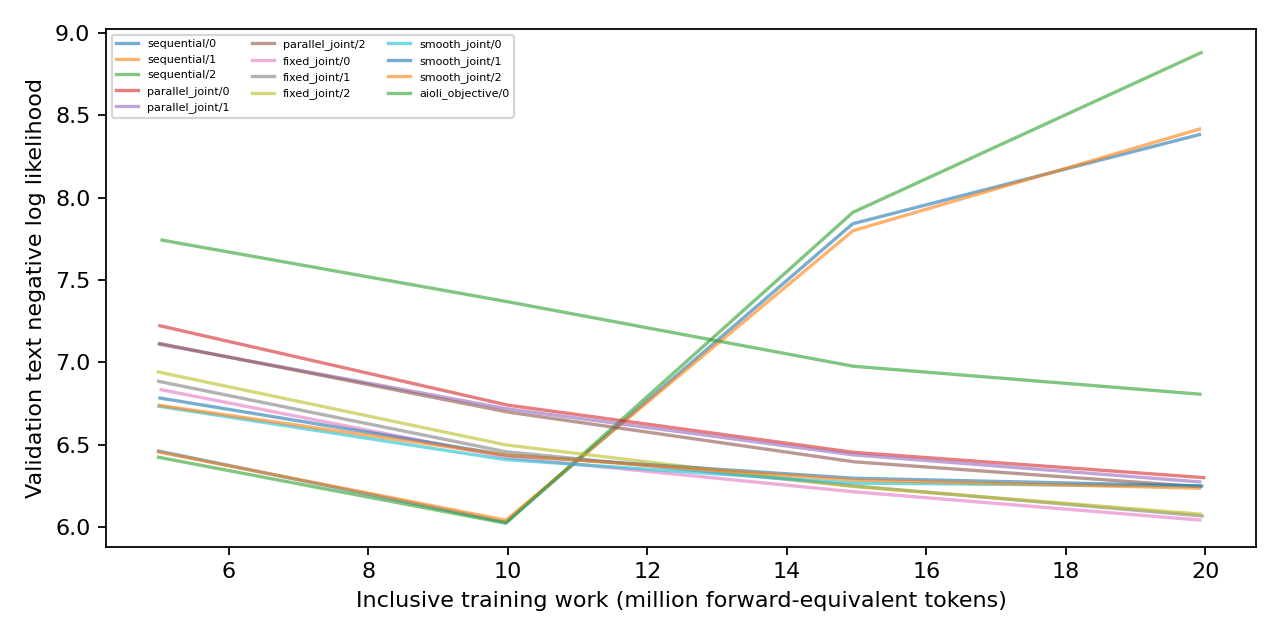
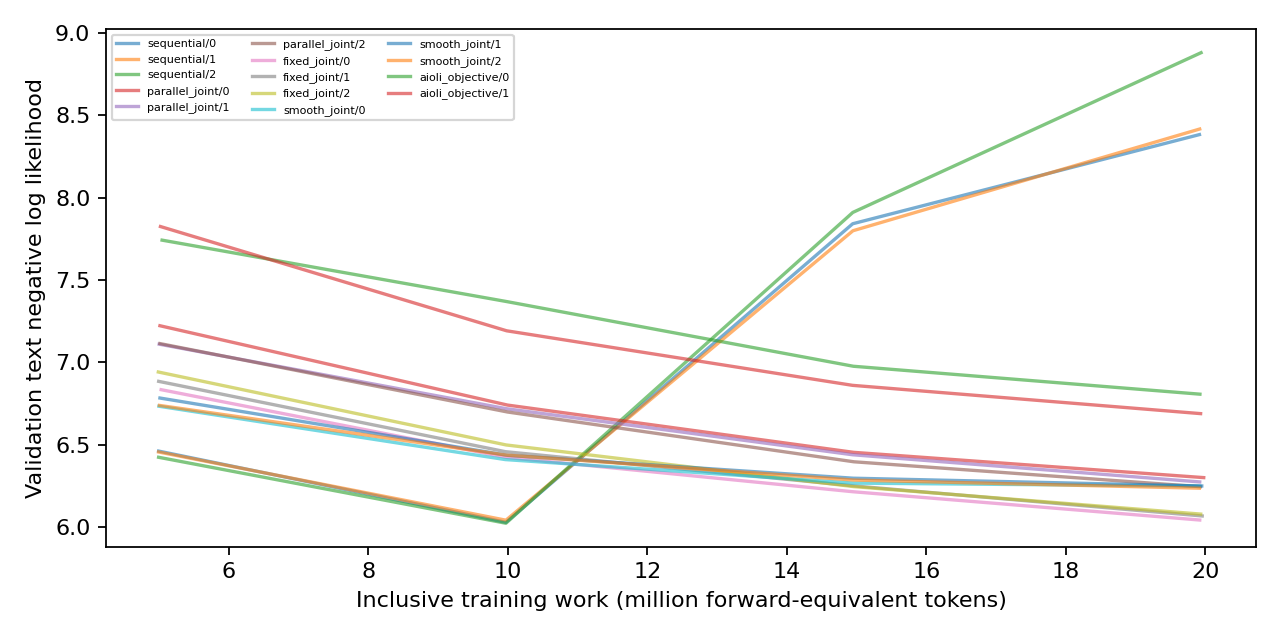
Report verified unified-training pilot progress

diff --git a/experiments/01_scratch_joint_objectives/results.md b/experiments/01_scratch_joint_objectives/results.md
@@ -17,7 +17,7 @@
 | smooth_joint | 1 | complete | 19.951 | 0.2555 [0.2383, 0.2734] | 0.0068 [0.0036, 0.0129] | 6.2006 [6.1727, 6.2301] | 0.5078 [0.4469, 0.5685] / 0.5000 [0.4392, 0.5608] |
 | smooth_joint | 2 | complete | 19.916 | 0.2525 [0.2355, 0.2704] | 0.0000 [0.0000, 0.0029] | 6.2176 [6.1906, 6.2468] | 0.5234 [0.4624, 0.5838] / 0.5508 [0.4895, 0.6105] |
 | aioli_objective | 0 | complete | 19.924 | 0.2521 [0.2351, 0.2700] | 0.0045 [0.0021, 0.0099] | 6.7875 [6.7616, 6.8138] | 0.5039 [0.4431, 0.5646] / 0.5703 [0.5091, 0.6295] |
-| aioli_objective | 1 | pending | unavailable | unavailable | unavailable | unavailable | unavailable |
+| aioli_objective | 1 | complete | 19.934 | 0.2508 [0.2338, 0.2687] | 0.0045 [0.0021, 0.0099] | 6.6489 [6.6226, 6.6768] | 0.5195 [0.4585, 0.5800] / 0.5273 [0.4662, 0.5876] |
 | aioli_objective | 2 | pending | unavailable | unavailable | unavailable | unavailable | unavailable |
 | validation_progress | 0 | pending | unavailable | unavailable | unavailable | unavailable | unavailable |
 | validation_progress | 1 | pending | unavailable | unavailable | unavailable | unavailable | unavailable |
@@ -33,7 +33,7 @@ NLL = negative log likelihood; preference raw ordering is the preference endpoin
 
 Intervals: 95% Wilson binary-item score, conditional on each trained model; p-val=n/a (no hypothesis test). Three seeds do not establish universal superiority. Aioli, CHORD (Controllable Harmonization of On- and Off-Policy Reinforcement Learning via Dynamic Weighting), and RPT (Reinforcement Pre-Training) are declared adaptations; exact CHERRY-RL identity remains unresolved.
 
-Complete: 13/24. See `expt_v1/PROTOCOL.md` and the program review reconciliation.
+Complete: 14/24. See `expt_v1/PROTOCOL.md` and the program review reconciliation.
 
 Seed uncertainty, two-stage seed/item intervals, initial-checkpoint changes and all paired comparisons: `expt_v1/analysis.json`. Missing trained seeds remain missing with separate accuracy sensitivity bounds. p-val=n/a throughout; no formal superiority verdict.
 

diff --git a/experiments/00_program/FINAL_STATUS.md b/experiments/00_program/FINAL_STATUS.md
@@ -1,6 +1,6 @@
 # Full-program status
 
-Verified cells: 13/48; failed: 0; interrupted: 0; pending: 35; unstarted at global bound: 0.
+Verified cells: 14/48; failed: 0; interrupted: 0; pending: 34; unstarted at global bound: 0.
 
 Full-program execution is incomplete. Required plan and implementation findings are reconciled; see acceptance.json.
 Results and uncertainty are in each experiment folder; no universal-superiority claim.
